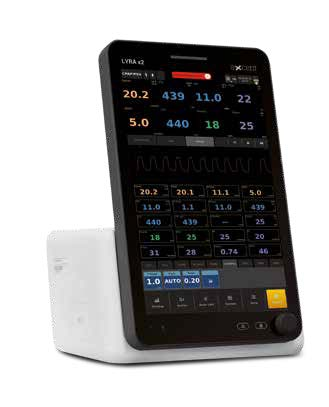
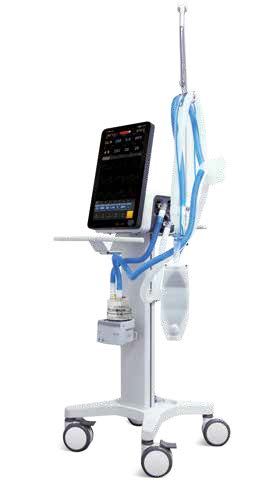
change main image of Axcent brand

diff --git a/src/data/partnersCatalog.js b/src/data/partnersCatalog.js
@@ -170,7 +170,7 @@ export const PARTNERS_CATALOG = [
         "images": [
           "assets/Partners/Axcent/Axcent - APUS X1/2.jpg",
           "assets/Partners/Axcent/Axcent - APUS X1/apus-bcs1.jpg",
-          "assets/Partners/Axcent/Axcent - APUS X1/apus-x1_1 (1).jpg",
+          "assets/Partners/Axcent/Axcent - APUS X1/1.jpg",
           "assets/Partners/Axcent/Axcent - APUS X1/apus-x1_2.jpg",
           "assets/Partners/Axcent/Axcent - APUS X1/apus-x1_3.jpg"
         ],
@@ -195,7 +195,7 @@ export const PARTNERS_CATALOG = [
           "assets/Partners/Axcent/Axcent - APUS X2/2.jpg",
           "assets/Partners/Axcent/Axcent - APUS X2/apus-bcs1-27jf9qm9k46c2zb.png",
           "assets/Partners/Axcent/Axcent - APUS X2/apus-bcs1.jpg",
-          "assets/Partners/Axcent/Axcent - APUS X2/apus-x2_1.jpg",
+          "assets/Partners/Axcent/Axcent - APUS X2/1.jpg",
           "assets/Partners/Axcent/Axcent - APUS X2/apus-x2_2.jpg"
         ],
         "documents": [
@@ -241,7 +241,7 @@ export const PARTNERS_CATALOG = [
         "name": "CETUS X12",
         "images": [
           "assets/Partners/Axcent/Axcent - CETUS X12/aXcent CETUS x12 Patient monitor.pdf - Adobe Acrobat Pro DC (64-bit).jpg",
-          "assets/Partners/Axcent/Axcent - CETUS X12/cetus x12.jpg"
+          "assets/Partners/Axcent/Axcent - CETUS X12/1.jpg"
         ],
         "documents": [
           {
@@ -283,9 +283,9 @@ export const PARTNERS_CATALOG = [
         "folderName": "Axcent - LYRA X1",
         "name": "LYRA X1",
         "images": [
-          "assets/Partners/Axcent/Axcent - LYRA X1/1.jpg",
+          "assets/Partners/Axcent/Axcent - LYRA X1/3.jpg",
           "assets/Partners/Axcent/Axcent - LYRA X1/2.jpg",
-          "assets/Partners/Axcent/Axcent - LYRA X1/Lyra x1 - Alkaram.pdf - Adobe Acrobat Pro DC (64-bit).jpg"
+          "assets/Partners/Axcent/Axcent - LYRA X1/1.jpg"
         ],
         "documents": [
           {
@@ -305,8 +305,8 @@ export const PARTNERS_CATALOG = [
         "folderName": "Axcent - LYRA X2",
         "name": "LYRA X2",
         "images": [
+          "assets/Partners/Axcent/Axcent - LYRA X2/12.jpg",
           "assets/Partners/Axcent/Axcent - LYRA X2/1.jpg",
-          "assets/Partners/Axcent/Axcent - LYRA X2/2.jpg",
           "assets/Partners/Axcent/Axcent - LYRA X2/Lyra x2 - Alkaram.pdf - Adobe Acrobat Pro DC (64-bit).jpg"
         ],
         "documents": [
@@ -350,7 +350,7 @@ export const PARTNERS_CATALOG = [
         "name": "MUSCA X2",
         "images": [
           "assets/Partners/Axcent/Axcent - MUSCA X2/MUSCA x2 - Alkaram.pdf - Adobe Acrobat Pro DC (64-bit).jpg",
-          "assets/Partners/Axcent/Axcent - MUSCA X2/musca-x2_1.jpg"
+          "assets/Partners/Axcent/Axcent - MUSCA X2/1.jpg"
         ],
         "documents": [
           {
@@ -370,8 +370,8 @@ export const PARTNERS_CATALOG = [
         "folderName": "Axcent - Pavo",
         "name": "Pavo",
         "images": [
+          "assets/Partners/Axcent/Axcent - Pavo/12.jpg",
           "assets/Partners/Axcent/Axcent - Pavo/1.jpg",
-          "assets/Partners/Axcent/Axcent - Pavo/2 (2).jpg",
           "assets/Partners/Axcent/Axcent - Pavo/2.jpg",
           "assets/Partners/Axcent/Axcent - Pavo/3.jpg",
           "assets/Partners/Axcent/Axcent - Pavo/4.jpg",